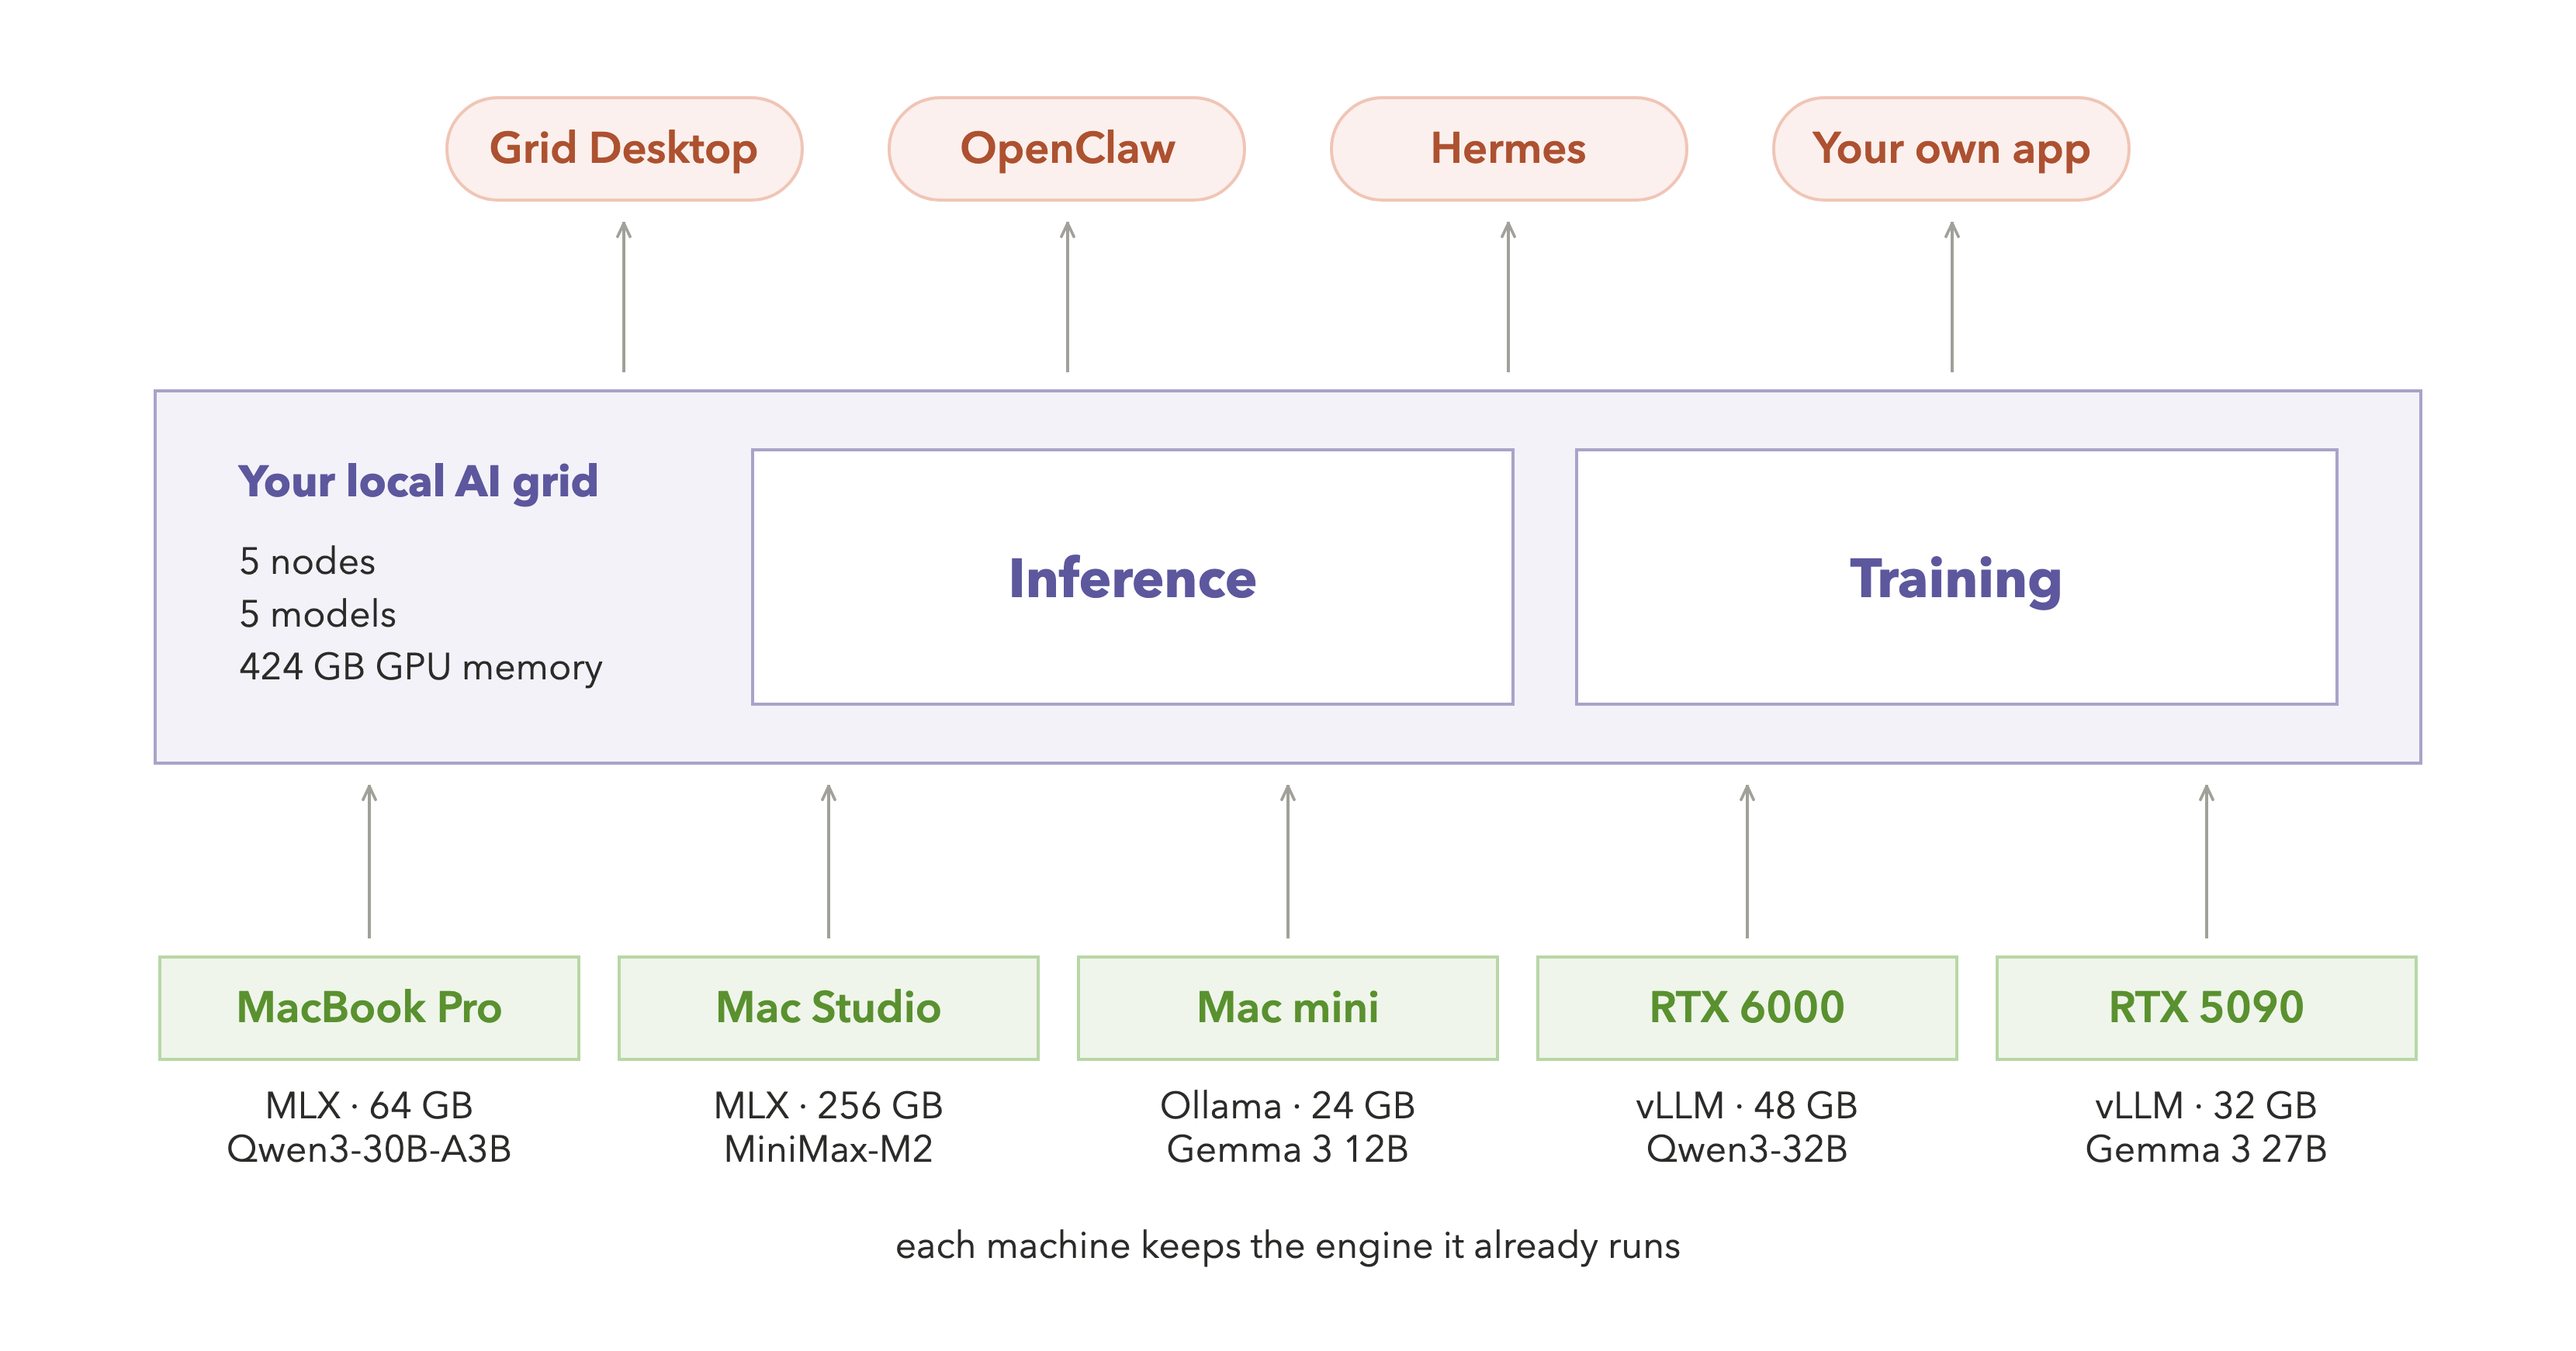
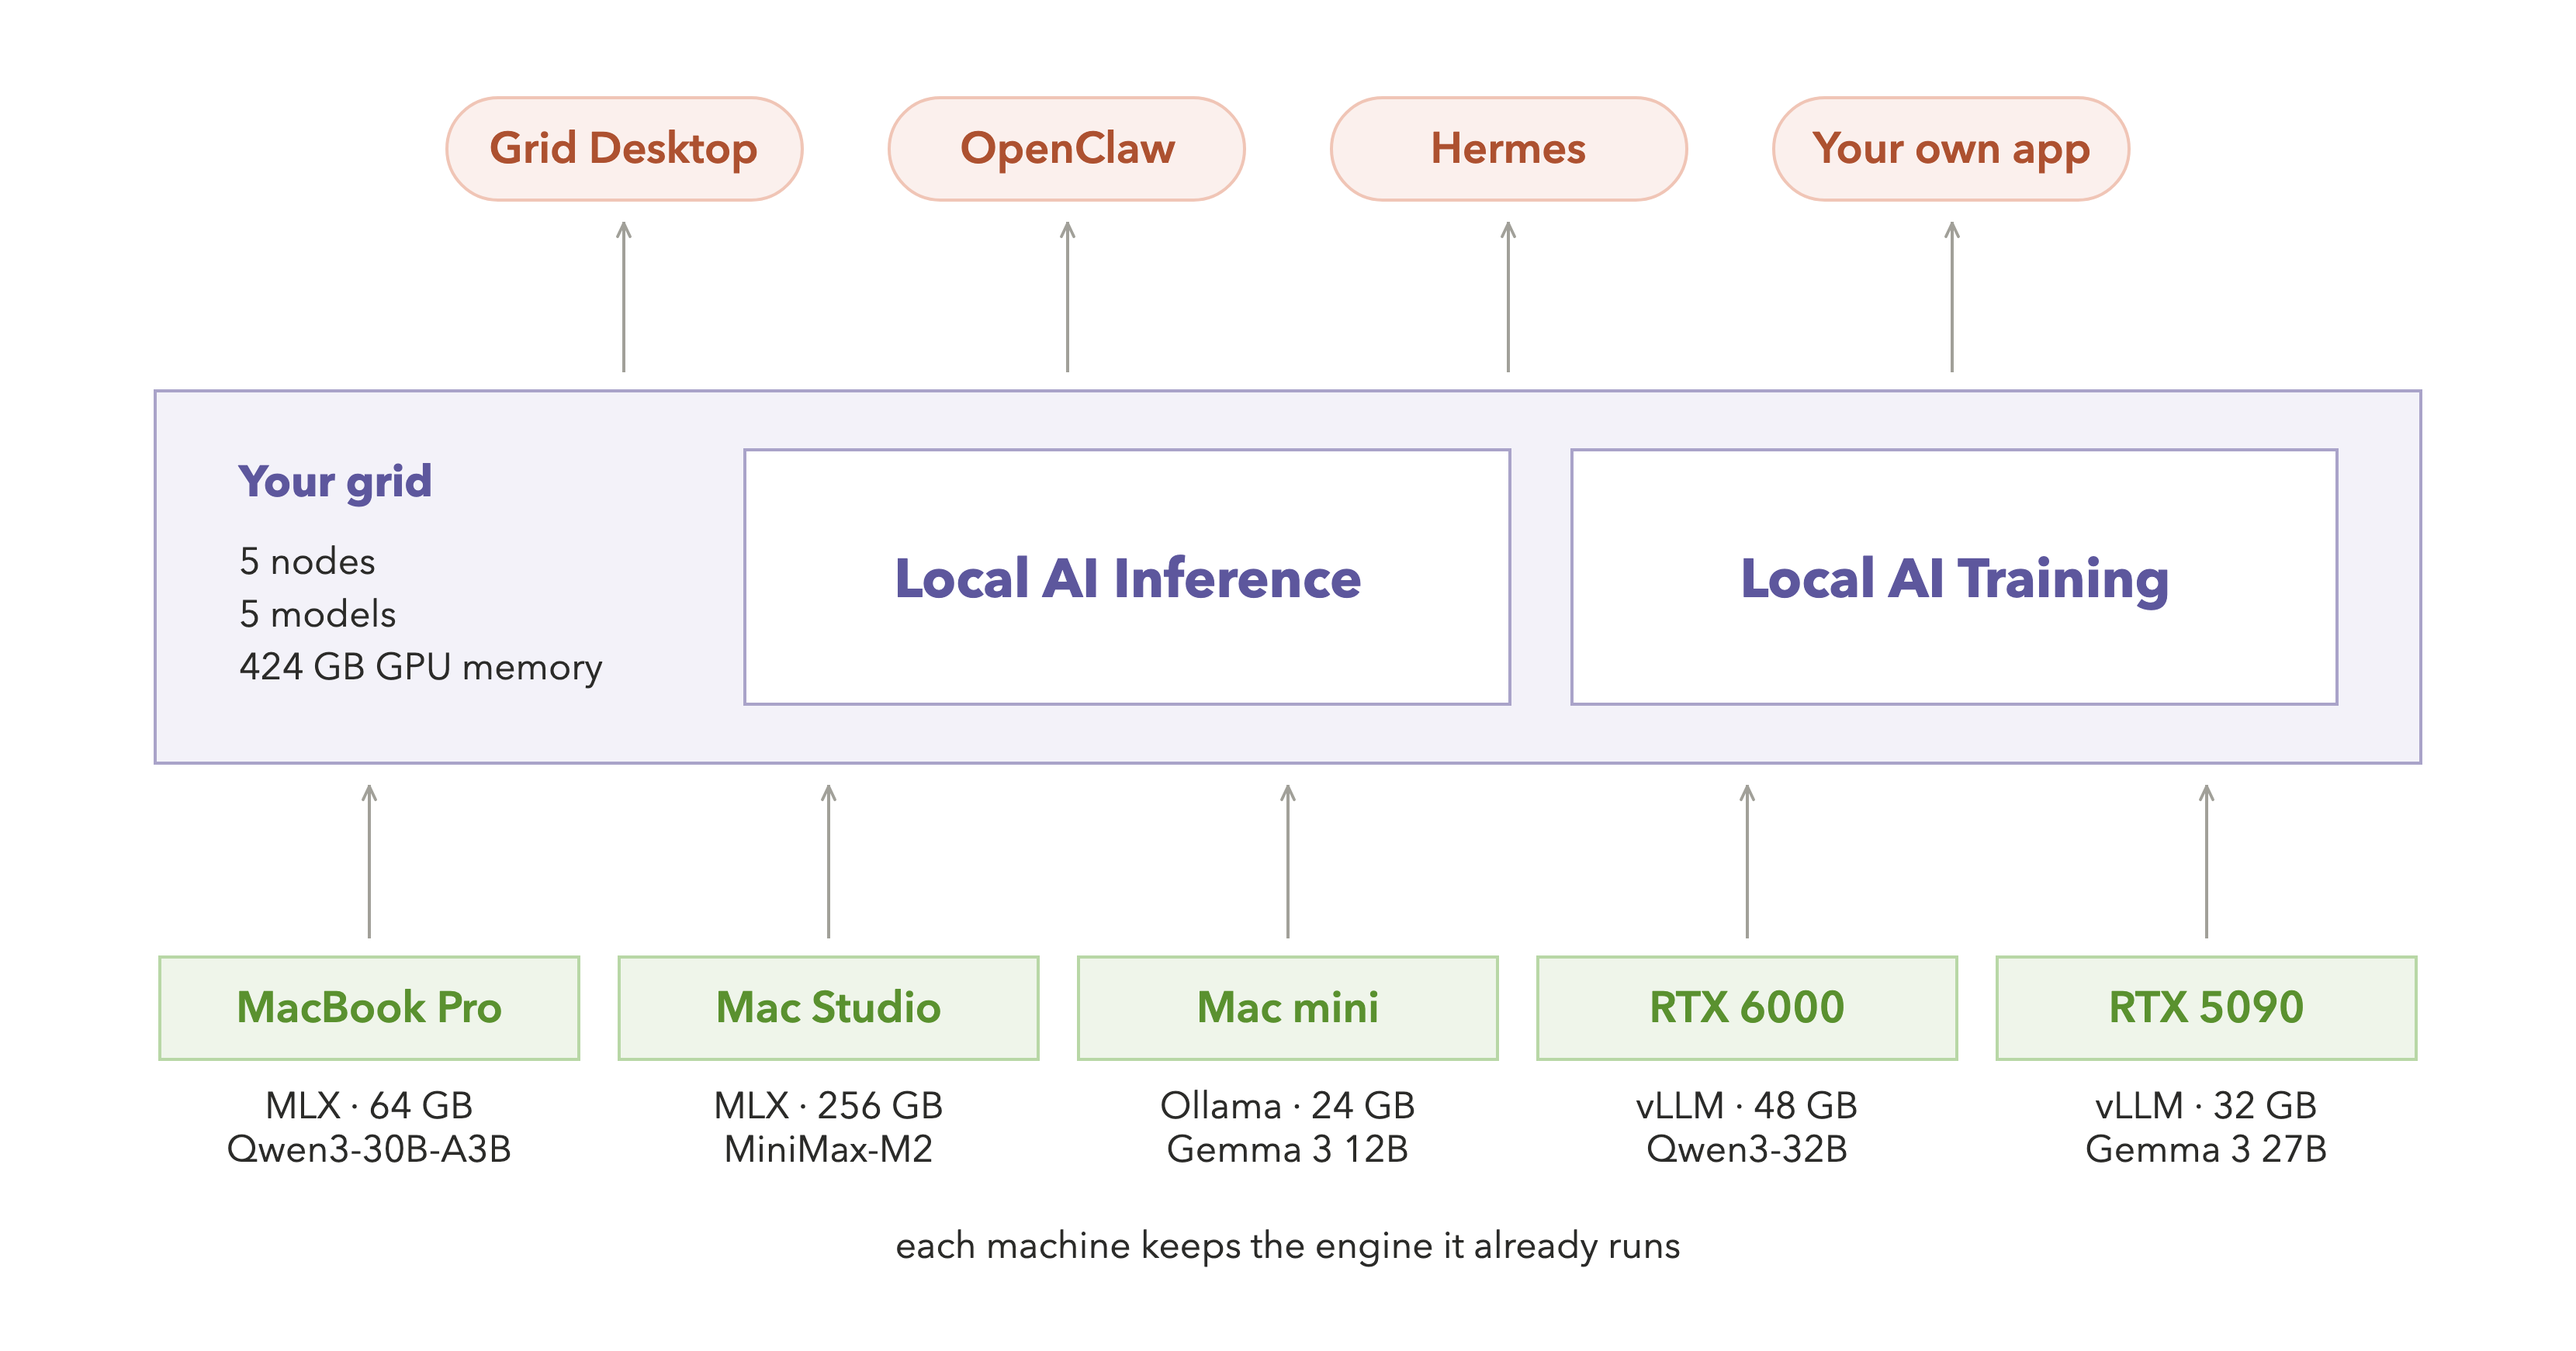
docs: Grid is a private network, not another model runner
The page never said the thing that separates this from an inference server. An
engine runs a model on one machine; Grid is the private network over all of
them. Someone who has used Ollama reads the old opening and reasonably asks what
this adds — so the answer now sits in the first sentence, and again beside the
engine list where that question actually occurs to them.

Framed as a layer, not a rivalry: Ollama, vLLM and LM Studio are engines this
federates and lists as supported. "Grid does not replace them; it networks them,
so five machines answer on one address."

The tagline says "across the computers you already own" rather than "on" — one
machine is not a grid, and the preposition is the cheapest place to say so.

The two halves of the figure carry "Local AI" each. It states the qualifier
twice on purpose: repetition is the emphasis. The panel title drops back to
"Your grid" so it lands twice rather than three times inside one box.

Changed region(s): [[0.3413, 0.403, 0.5274, 0.465], [0.6825, 0.403, 0.8377, 0.465], [0.1241, 0.341, 0.2482, 0.372]]

diff --git a/docs/build_figures.py b/docs/build_figures.py
@@ -421,7 +421,8 @@ PH = 240
 STATS = [f"{len(FLEET)} nodes",
          f"{len({model for *_, model in FLEET})} models",
          f"{sum(gb for _, _, gb, _ in FLEET)} GB GPU memory"]
-f.panel(M, 1660 - M, gy, "Your local AI grid", STATS, ["Inference", "Training"], h=PH)
+f.panel(M, 1660 - M, gy, "Your grid", STATS,
+        ["Local AI Inference", "Local AI Training"], h=PH)
 for cx in app_x:
     f.arrow(cx, gy - PH / 2 - 12, cx, app_y + H / 2 + 14)
 

diff --git a/README.md b/README.md
@@ -2,7 +2,7 @@
 
 # ⚡ Grid
 
-### Local AI inference and training, on the computers you already own.
+### Local AI inference and training, across the computers you already own.
 
 [![CI](https://github.com/autonomous-ai/autonomous-grid/actions/workflows/ci.yml/badge.svg)](https://github.com/autonomous-ai/autonomous-grid/actions/workflows/ci.yml)
 [![License: MIT](https://img.shields.io/badge/License-MIT-blue.svg)](LICENSE)
@@ -11,17 +11,18 @@
 
 [**Quickstart**](#quickstart) · [Inference](#inference) · [Training](#training) · [How it works](#how-it-works) · [CLI reference](docs/cli.md) · [Contributing](#contributing)
 
-<img src="docs/home-grid.png" alt="Grid Desktop, OpenClaw, Hermes and your own app all draw from one local AI grid. The grid is a single box holding two halves — inference and training — beside a roll-up of what it adds up to: 5 nodes, 5 models, 424 GB of GPU memory. Underneath, the computers you already own join it, each keeping the engine it already runs: a MacBook Pro on MLX with 64 GB serving Qwen3-30B-A3B, a Mac Studio on MLX with 256 GB serving MiniMax-M2, a Mac mini on Ollama with 24 GB serving Gemma 3 12B, an RTX 6000 on vLLM with 48 GB serving Qwen3-32B, and an RTX 5090 on vLLM with 32 GB serving Gemma 3 27B." width="860">
+<img src="docs/home-grid.png" alt="Grid Desktop, OpenClaw, Hermes and your own app all draw from one local AI grid spanning every machine you own. The grid is a single box holding two halves — local AI inference and local AI training — beside a roll-up of what it adds up to: 5 nodes, 5 models, 424 GB of GPU memory. Underneath, the computers you already own join it, each keeping the engine it already runs: a MacBook Pro on MLX with 64 GB serving Qwen3-30B-A3B, a Mac Studio on MLX with 256 GB serving MiniMax-M2, a Mac mini on Ollama with 24 GB serving Gemma 3 12B, an RTX 6000 on vLLM with 48 GB serving Qwen3-32B, and an RTX 5090 on vLLM with 32 GB serving Gemma 3 27B." width="860">
 
 </div>
 
-Grid is the orchestration layer for **local AI**. It pools the computers you already have — your
-Mac, your NVIDIA desktop, the workstation in the corner — behind **one OpenAI-compatible
-endpoint**, and does two things with them.
+Grid is the orchestration layer for **local AI** — a private network across the computers you
+already own. An inference server runs a model on one machine; Grid makes every machine you have —
+your Mac, your NVIDIA desktop, the workstation in the corner — answer as one, behind **one
+OpenAI-compatible endpoint**, and does two things with them.
 
 **Inference.** Each request routes to whichever computer runs the right model. The inference servers
 you already run — Ollama, vLLM, LM Studio, MLX, llama.cpp, ComfyUI — stay exactly where they are.
-Grid only ties them together.
+Grid does not replace them; it networks them, so five machines answer on one address.
 
 **Training.** The same fleet teaches a small model *your* work, and the data, the attempts and the
 weights never leave your network. This belongs here rather than in a separate tool for one reason:
